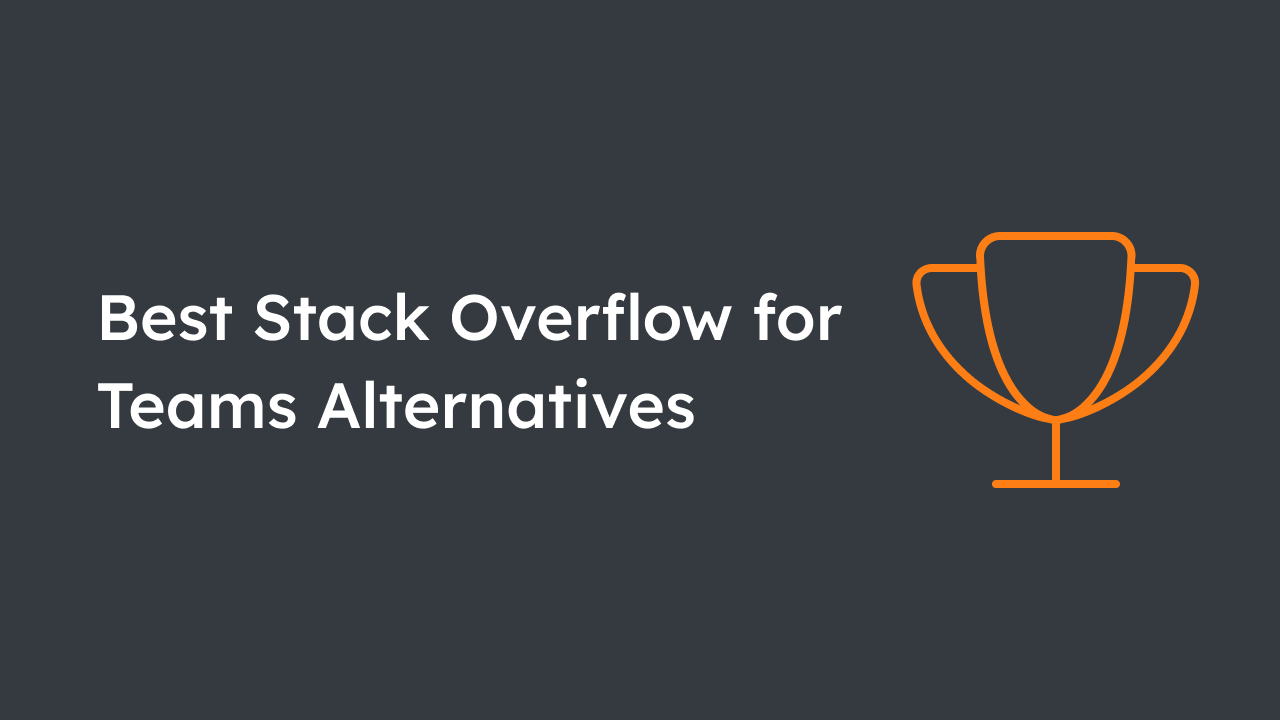
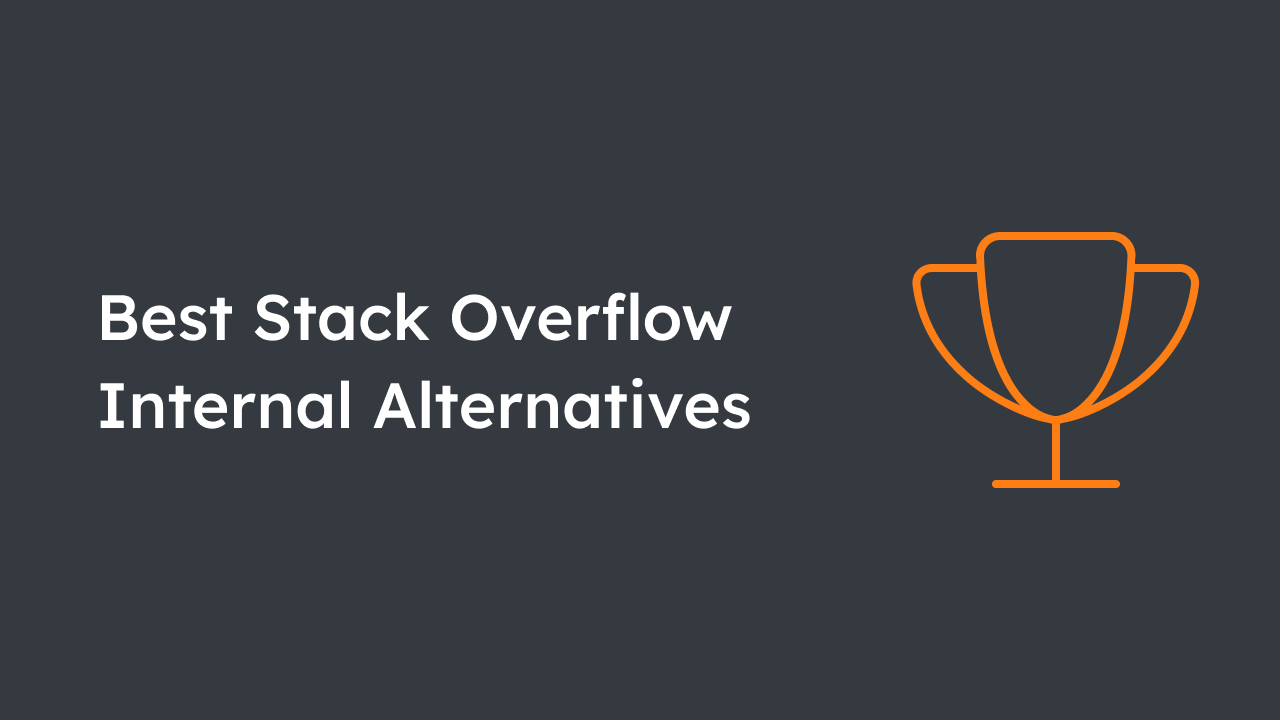
update: blog cover

Changed region(s): [[0.0625, 0.5194, 0.5938, 0.6111], [0.5938, 0.3972, 0.6562, 0.4889]]

diff --git a/blog/best-stackoverflow-internal-alternatives/index.md b/blog/best-stackoverflow-internal-alternatives/index.md
@@ -5,12 +5,12 @@ authors: [fenbox]
 category: Insights
 # featured: true
 image: 2025-11-12-cover@4x.png
-description: "Discover the best Stack Overflow Internal (Original name Stack Overflow for Teams) alternatives in 2025. Learn how Apache Answer — and its hosted SaaS edition AnswerGrowth — provide a powerful, open-source approach to team Q&A and knowledge sharing."
+description: "Discover the best Stack Overflow Internal (original name: Stack Overflow for Teams) alternatives in 2025. Learn how Apache Answer — and its hosted SaaS edition AnswerGrowth — provide a powerful, open-source approach to team Q&A and knowledge sharing."
 ---
 
 ### Why Teams Are Looking for Alternatives to Stack Overflow Internal
 
-Stack Overflow Internal (Original name Stack Overflow for Teams) has long been a go-to solution for developer collaboration and internal Q&A. However, as teams expand across departments, many are finding it **expensive**, **rigid**, and **less adaptable** to broader organizational needs.
+Stack Overflow Internal (original name: Stack Overflow for Teams) has long been a go-to solution for developer collaboration and internal Q&A. However, as teams expand across departments, many are finding it **expensive**, **rigid**, and **less adaptable** to broader organizational needs.
 
 Common challenges include:
 
@@ -90,7 +90,7 @@ For those who prefer a fully managed cloud option, the same technology also powe
 | Product                  | Type                          | Pricing           | Key Strength                    | Ideal For            |
 | ------------------------ | ----------------------------- | ----------------- | ------------------------------- | -------------------- |
 | **Apache Answer**        | Open Source                   | Free              | Open, flexible, modern UI       | Self-hosted teams    |
-| **AnswerGrowth**         | SaaS (based on Apache Answer) | From $19/month | Fully managed, no hosting       | Companies & startups |
+| **AnswerGrowth**         | SaaS (based on Apache Answer) | From $19/month | Fully managed, no hosting       | Companies & Startups |
 | Stack Overflow Internal | SaaS                          | Free + $6–$13/user/month | Familiar dev experience         | Developer teams      |
 | Discourse                | Forum / SaaS                  | From $20/month   | Forum-style discussions         | Communities          |
 | Question2Answer          | Open Source                   | Free              | Lightweight, developer-friendly | Small dev teams      |
